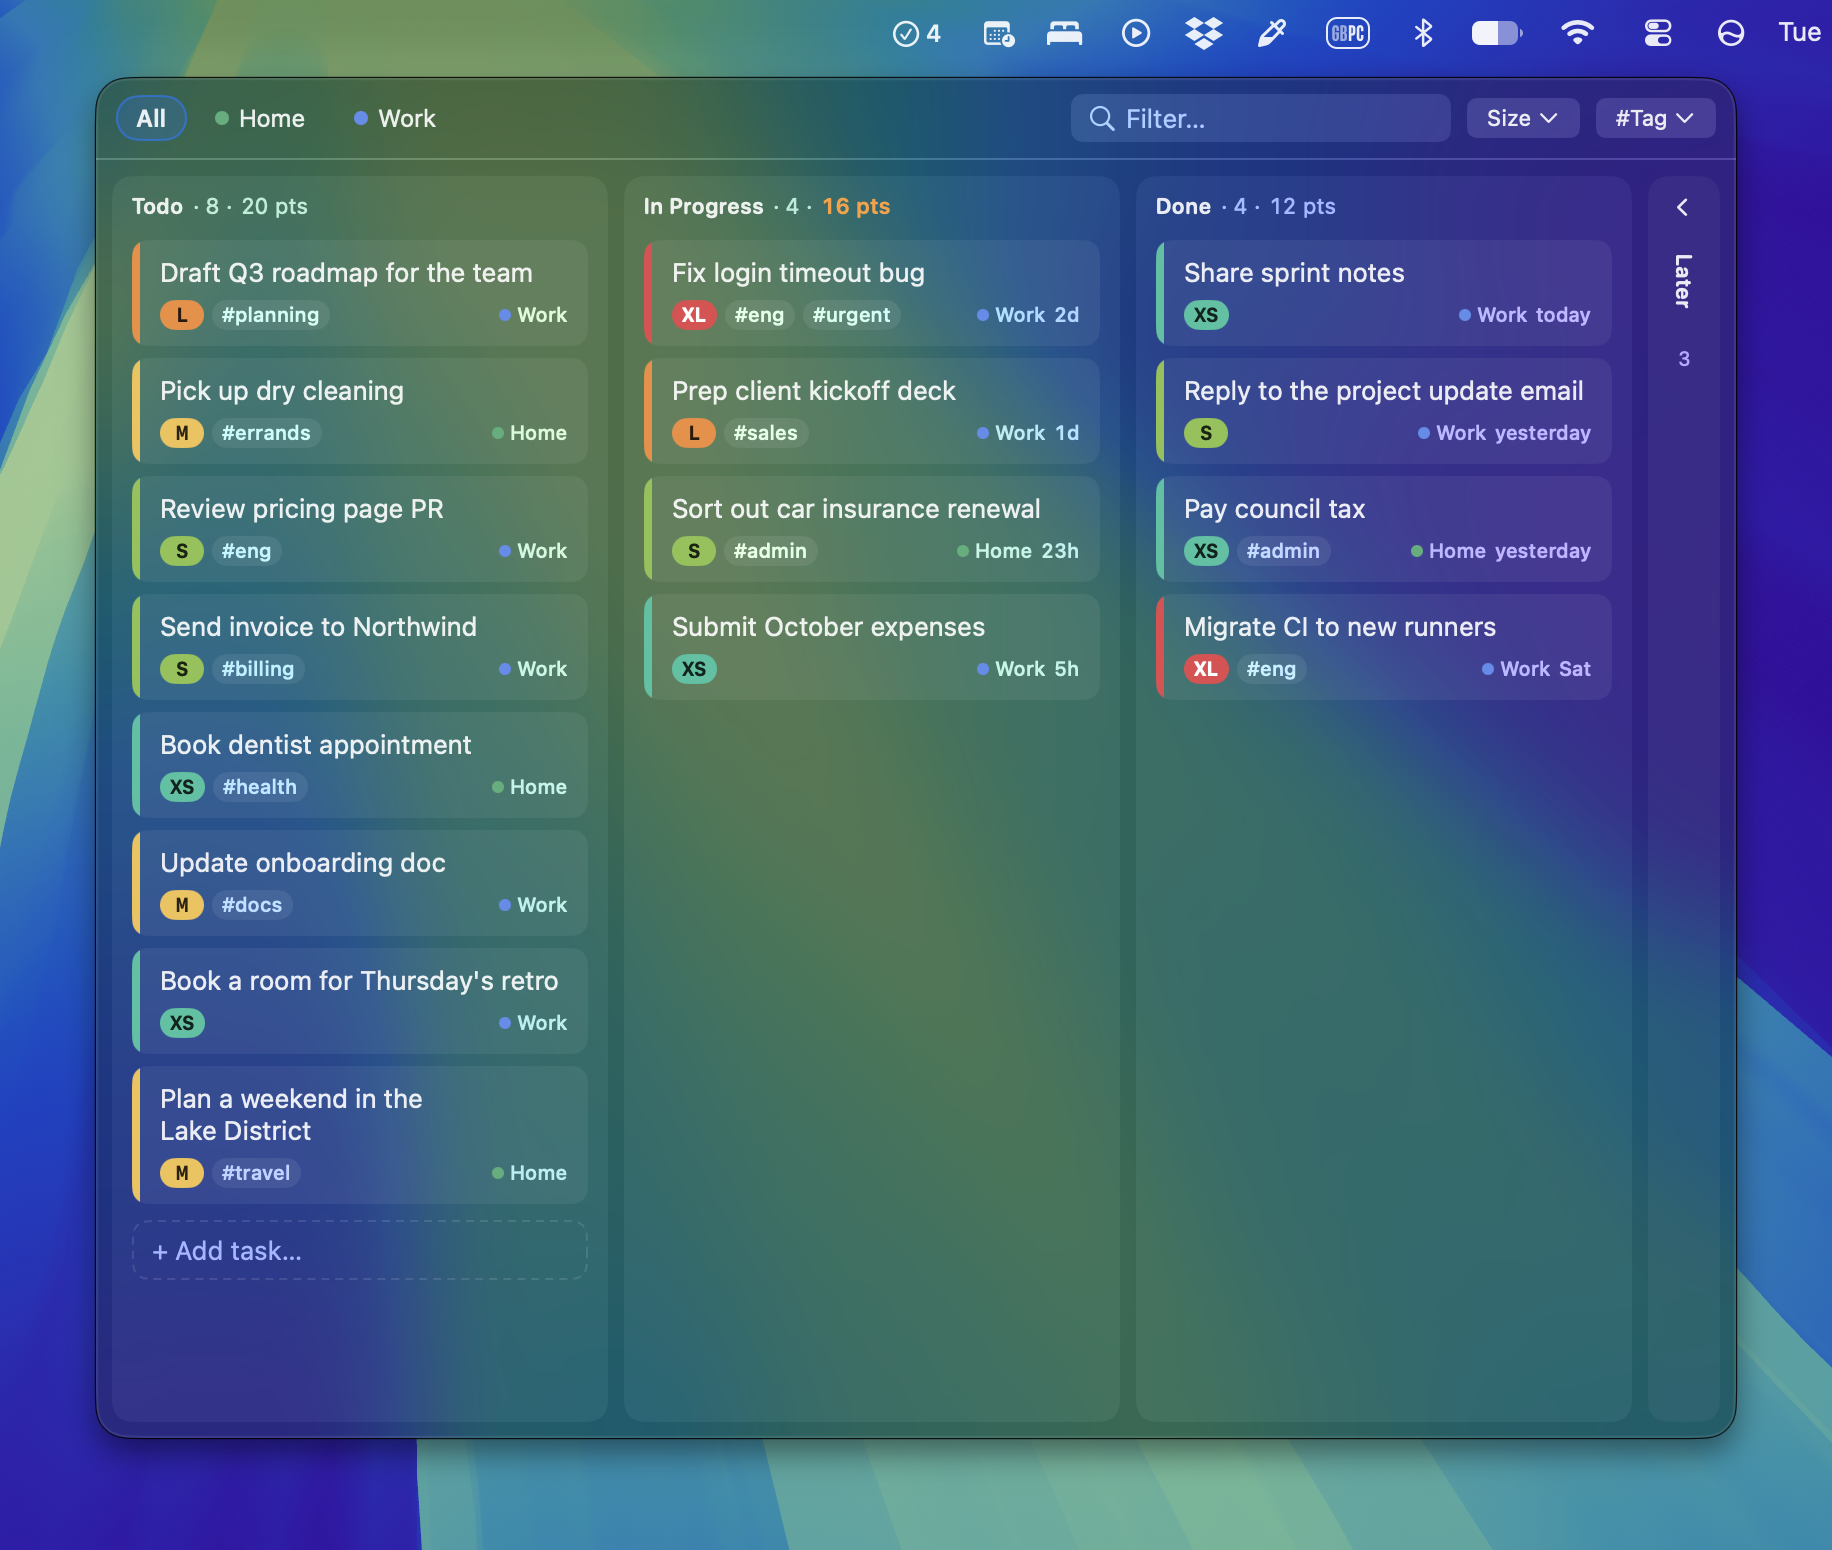
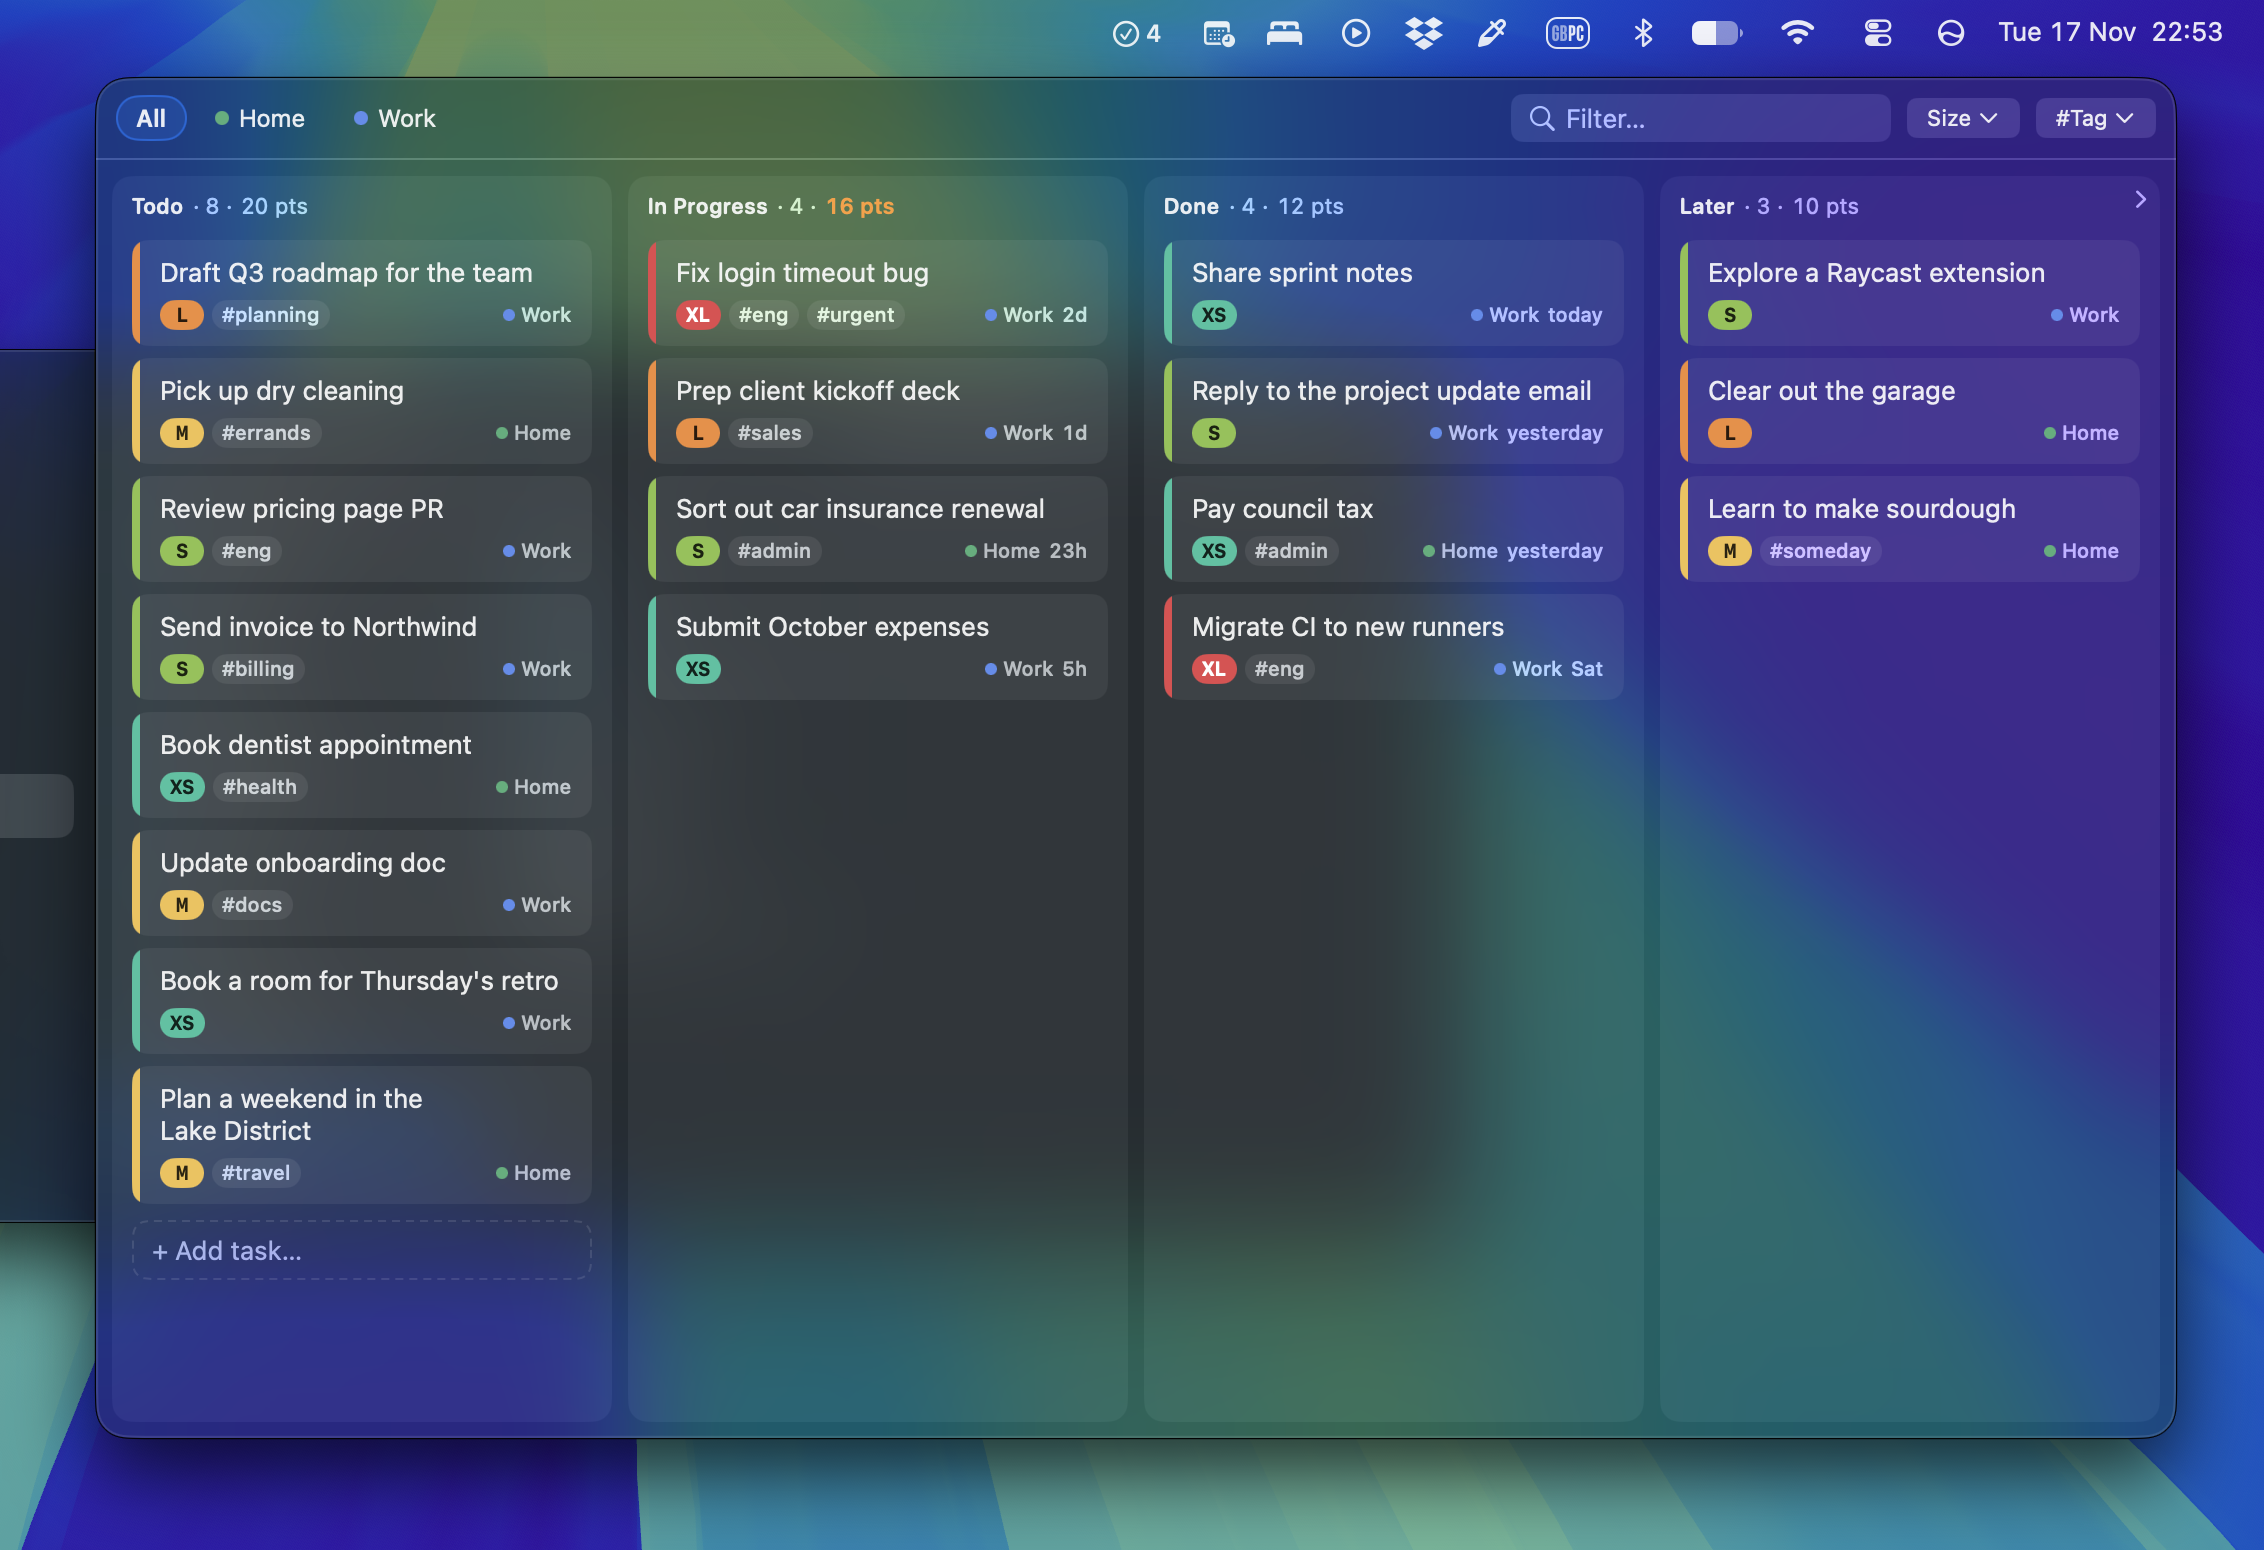
Move Later to the left of Todo
Later is the backlog work is picked up from, so the board now reads
Later -> Todo -> In Progress -> Done. Cmd-Left on a Todo card defers it
to Later; Done is the last column. The collapsed strip, its chevrons and
the expand transition are mirrored to match.

diff --git a/OnIt/Views/Popover/ColumnView.swift b/OnIt/Views/Popover/ColumnView.swift
@@ -6,15 +6,16 @@ struct ColumnsView: View {
 
     var body: some View {
         HStack(alignment: .top, spacing: PanelMetrics.columnSpacing) {
-            ColumnView(column: .todo, focus: focus)
-            ColumnView(column: .doing, focus: focus)
-            ColumnView(column: .done, focus: focus)
+            // Later is the backlog, so it comes first, before Todo.
             if store.settings.laterExpanded {
                 ColumnView(column: .later, focus: focus)
-                    .transition(.move(edge: .trailing).combined(with: .opacity))
+                    .transition(.move(edge: .leading).combined(with: .opacity))
             } else {
                 LaterStrip()
             }
+            ColumnView(column: .todo, focus: focus)
+            ColumnView(column: .doing, focus: focus)
+            ColumnView(column: .done, focus: focus)
         }
         .padding(PanelMetrics.outerPadding)
     }
@@ -80,7 +81,7 @@ struct ColumnView: View {
                 Button {
                     withAnimation(BoardUIState.cardAnimation) { ui.toggleLater() }
                 } label: {
-                    Image(systemName: "chevron.right")
+                    Image(systemName: "chevron.left")
                         .font(.caption.weight(.semibold))
                         .padding(6)
                 }
@@ -159,7 +160,7 @@ struct LaterStrip: View {
             withAnimation(BoardUIState.cardAnimation) { ui.toggleLater() }
         } label: {
             VStack(spacing: 10) {
-                Image(systemName: "chevron.left")
+                Image(systemName: "chevron.right")
                     .font(.caption.weight(.semibold))
                 Text("Later")
                     .font(.system(.subheadline, design: .rounded).weight(.semibold))

diff --git a/OnItTests/StoreTests.swift b/OnItTests/StoreTests.swift
@@ -102,6 +102,13 @@ struct StoreTests {
 
     // MARK: Moving and ordering
 
+    @Test func laterIsTheBacklogBeforeTodo() {
+        #expect(Column.allCases == [.later, .todo, .doing, .done])
+        #expect(Column.todo.previous == .later)
+        #expect(Column.later.previous == nil)
+        #expect(Column.done.next == nil)
+    }
+
     @Test func moveSetsTimestamps() {
         let task = add("x")
         clock.advance(days: 1)

diff --git a/OnIt/Model/Column.swift b/OnIt/Model/Column.swift
@@ -1,8 +1,9 @@
 import Foundation
 
-/// The four fixed columns every board has in v1.
+/// The four fixed columns every board has, in left-to-right order. Later sits first, before
+/// Todo, because it's the backlog that work is picked up from.
 enum Column: String, Codable, CaseIterable, Sendable, Identifiable {
-    case todo, doing, done, later
+    case later, todo, doing, done
 
     var id: String { rawValue }
 

diff --git a/OnIt/Views/Popover/BoardUIState.swift b/OnIt/Views/Popover/BoardUIState.swift
@@ -77,7 +77,7 @@ final class BoardUIState {
     // MARK: Visible data
 
     var visibleColumns: [Column] {
-        store.settings.laterExpanded ? Column.allCases : [.todo, .doing, .done]
+        store.settings.laterExpanded ? Column.allCases : Column.allCases.filter { $0 != .later }
     }
 
     func visibleTasks(in column: Column) -> [TaskItem] {

diff --git a/docs/IMPLEMENTATION_NOTES.md b/docs/IMPLEMENTATION_NOTES.md
@@ -43,5 +43,8 @@ The old folder is left untouched.
     Raycast welcome card.
 12. **Acceptance criterion 1 uses `@acme`**, which isn't a starting board. Add an Acme board
     (or an `acme` alias) first, or try `@home`.
-13. **Tests run hosted in the app.** `AppDelegate` detects the XCTest environment and uses an in-memory
+13. **Later is the leftmost column**, before Todo, rather than after Done as in §8.2. It's the backlog
+    that work is picked up from, so the board reads Later → Todo → In Progress → Done, and ⌘← on a
+    Todo card defers it to Later. It still collapses to a slim strip by default and accepts drops.
+14. **Tests run hosted in the app.** `AppDelegate` detects the XCTest environment and uses an in-memory
     store, so tests never touch your real data file or menu bar.
